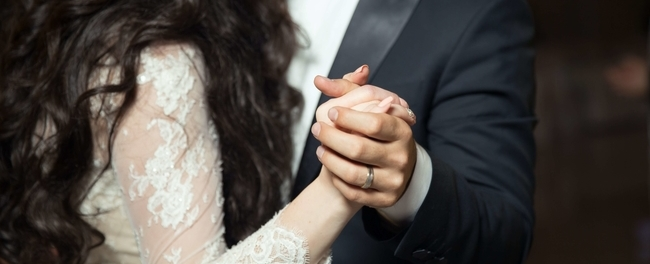
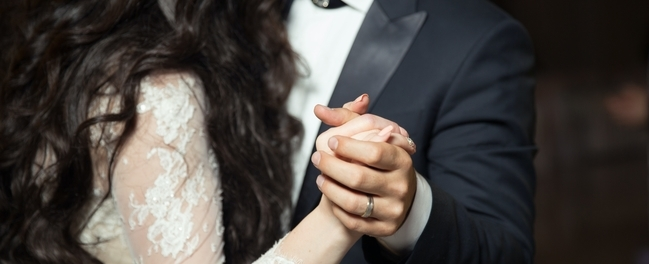
fully responsive

diff --git a/index.html b/index.html
@@ -13,9 +13,9 @@
 </head>
 <header>
     <!-- Navbar -->
-    <nav class="navbar navbar-expand-lg navbar-light bg-light">
+    <nav class="navbar navbar-expand-lg navbar-dark">
         <div class="container">
-            <a class="navbar-brand" href="#">City Hall Convention Center</a>
+            <a class="navbar-brand fw-bold" href="#" >City Hall Convention Center</a>
             <button class="navbar-toggler" type="button" data-bs-toggle="collapse" data-bs-target="#navbarNav"
                 aria-controls="navbarNav" aria-expanded="false" aria-label="Toggle navigation">
                 <span class="navbar-toggler-icon"></span>
@@ -23,16 +23,16 @@
             <div class="collapse navbar-collapse" id="navbarNav">
                 <ul class="navbar-nav ms-auto">
                     <li class="nav-item">
-                        <a class="nav-link active" aria-current="page" href="#">Home</a>
+                        <a class="nav-link active" aria-current="page" href="#carouselExampleCaptions">Home</a>
                     </li>
                     <li class="nav-item">
-                        <a class="nav-link" href="#">About Us</a>
+                        <a class="nav-link" href="#package-section">Packages</a>
                     </li>
                     <li class="nav-item">
-                        <a class="nav-link" href="#">Packages</a>
+                        <a class="nav-link" href="#reviews">Reviews</a>
                     </li>
                     <li class="nav-item">
-                        <a class="nav-link disabled">Contact</a>
+                        <a class="nav-link" href="#q&a">Q&A</a>
                     </li>
                 </ul>
             </div>
@@ -97,7 +97,6 @@
         </button>
     </div>
 
-
     <!-- Intro -->
     <div class="container my-5 mx-auto p-5 g-4">
         <div class="row row-cols-lg-2 row-cols-1 row-cols-md-2  align-items-center">
@@ -122,8 +121,9 @@
 
 <body>
 
+
     <!-- Packages -->
-    <div class="container package-container mb-5 mt-5 mx-auto">
+    <div class="container package-container mb-5 mt-5 mx-auto" id="package-section">
         <h3 class="fw-bold text-center mb-5">Our Packages</h3>
         <div class="row row-cols-1 row-cols-md-2 row-cols-lg-4 row-cols-xl-4 row-cols-xxl-4 g-4">
             <div class="col package package-card-main ">
@@ -254,7 +254,7 @@
     </div>
 
     <!-- Client's Feedback -->
-    <div class="feedback mb-5 mt-5">
+    <div class="feedback mb-5 mt-5" id="reviews">
         <div class="container">
             <h3 class="text-center fw-bold mb-5">Client's Feedback</h3>
             <div class="row row-cols-lg-3 row-cols-1 text-center">
@@ -291,7 +291,7 @@
     </div>
 
     <!-- Frequently asked questions -->
-    <div class="questions mt-5 mb-5">
+    <div class="questions mt-5 mb-5" id="q&a">
         <h3 class="fw-bold text-center mb-5">Frequently asked questions</h3>
         <div class="container">
             <div class="row row-cols-lg-2 row-cols-1 row-md-lg-2 align-items-center g-4">
@@ -302,18 +302,13 @@
                                 <button class="accordion-button" type="button" data-bs-toggle="collapse"
                                     data-bs-target="#panelsStayOpen-collapseOne" aria-expanded="true"
                                     aria-controls="panelsStayOpen-collapseOne">
-                                    Accordion Item #1
+                                    <h5>What’s the difference between event design and event planning?</h5> 
                                 </button>
                             </h2>
                             <div id="panelsStayOpen-collapseOne" class="accordion-collapse collapse show"
                                 aria-labelledby="panelsStayOpen-headingOne">
                                 <div class="accordion-body">
-                                    <strong>This is the first item's accordion body.</strong> It is shown by default,
-                                    until the collapse plugin adds the appropriate classes that we use to style each
-                                    element. These classes control the overall appearance, as well as the showing and
-                                    hiding via CSS transitions. You can modify any of this with custom CSS or overriding
-                                    our default variables. It's also worth noting that just about any HTML can go within
-                                    the <code>.accordion-body</code>, though the transition does limit overflow.
+                                    <p>Event design and event planning work hand in hand to deliver a successful event.Events by Knight offer tailor made events. This means we incorporate both event design and event planning to create that perfect event.</p> 
                                 </div>
                             </div>
                         </div>
@@ -322,18 +317,18 @@
                                 <button class="accordion-button collapsed" type="button" data-bs-toggle="collapse"
                                     data-bs-target="#panelsStayOpen-collapseTwo" aria-expanded="false"
                                     aria-controls="panelsStayOpen-collapseTwo">
-                                    Accordion Item #2
+                                    <h5>How early do we need to start planning an event</h5>
                                 </button>
                             </h2>
                             <div id="panelsStayOpen-collapseTwo" class="accordion-collapse collapse"
                                 aria-labelledby="panelsStayOpen-headingTwo">
                                 <div class="accordion-body">
-                                    <strong>This is the second item's accordion body.</strong> It is hidden by default,
-                                    until the collapse plugin adds the appropriate classes that we use to style each
-                                    element. These classes control the overall appearance, as well as the showing and
-                                    hiding via CSS transitions. You can modify any of this with custom CSS or overriding
-                                    our default variables. It's also worth noting that just about any HTML can go within
-                                    the <code>.accordion-body</code>, though the transition does limit overflow.
+                                    <p>This is the second item's accordion body.</strong> It is hidden by default,
+                                        until the collapse plugin adds the appropriate classes that we use to style each
+                                        element. These classes control the overall appearance, as well as the showing and
+                                        hiding via CSS transitions. You can modify any of this with custom CSS or overriding
+                                        our default variables. It's also worth noting that just about any HTML can go within
+                                        the <code>.accordion-body</code>, though the transition does limit overflow.</p>
                                 </div>
                             </div>
                         </div>
@@ -342,18 +337,38 @@
                                 <button class="accordion-button collapsed" type="button" data-bs-toggle="collapse"
                                     data-bs-target="#panelsStayOpen-collapseThree" aria-expanded="false"
                                     aria-controls="panelsStayOpen-collapseThree">
-                                    Accordion Item #3
+                                    <h5>What is your refund and cancellation policy?</h5>
                                 </button>
                             </h2>
                             <div id="panelsStayOpen-collapseThree" class="accordion-collapse collapse"
                                 aria-labelledby="panelsStayOpen-headingThree">
                                 <div class="accordion-body">
-                                    <strong>This is the third item's accordion body.</strong> It is hidden by default,
-                                    until the collapse plugin adds the appropriate classes that we use to style each
-                                    element. These classes control the overall appearance, as well as the showing and
-                                    hiding via CSS transitions. You can modify any of this with custom CSS or overriding
-                                    our default variables. It's also worth noting that just about any HTML can go within
-                                    the <code>.accordion-body</code>, though the transition does limit overflow.
+                                    <p>This is the third item's accordion body.</strong> It is hidden by default,
+                                        until the collapse plugin adds the appropriate classes that we use to style each
+                                        element. These classes control the overall appearance, as well as the showing and
+                                        hiding via CSS transitions. You can modify any of this with custom CSS or overriding
+                                        our default variables. It's also worth noting that just about any HTML can go within
+                                        the <code>.accordion-body</code>, though the transition does limit overflow.</p> 
+                                </div>
+                            </div>
+                        </div>
+                        <div class="accordion-item">
+                            <h2 class="accordion-header" id="panelsStayOpen-headingfour">
+                                <button class="accordion-button collapsed" type="button" data-bs-toggle="collapse"
+                                    data-bs-target="#panelsStayOpen-collapsefour" aria-expanded="false"
+                                    aria-controls="panelsStayOpen-collapserfour">
+                                    <h5>How do you keep budgets on track?</h5>
+                                </button>
+                            </h2>
+                            <div id="panelsStayOpen-collapsefour" class="accordion-collapse collapse"
+                                aria-labelledby="panelsStayOpen-headingfour">
+                                <div class="accordion-body">
+                                    <p>This is the third item's accordion body.</strong> It is hidden by default,
+                                        until the collapse plugin adds the appropriate classes that we use to style each
+                                        element. These classes control the overall appearance, as well as the showing and
+                                        hiding via CSS transitions. You can modify any of this with custom CSS or overriding
+                                        our default variables. It's also worth noting that just about any HTML can go within
+                                        the <code>.accordion-body</code>, though the transition does limit overflow.</p> 
                                 </div>
                             </div>
                         </div>
@@ -387,7 +402,7 @@
         <div class="order-1 order-sm-2 order-lg-2 order-md-2">
             <div class="d-flex  gap-2 ">
                 <div class="footer-util d-flex flex-column gap-3">
-                    <a class="footer-button d-flex align-items-center p-4" href="http:apple.com">
+                    <a class="footer-button d-flex align-items-center p-4" href="https://www.apple.com/app-store/" target="_blank">
                         <div>
                             <i class="fab fa-apple me-3"></i>
                         </div>
@@ -397,7 +412,7 @@
                             </small>
                         </div>
                     </a>
-                    <a class="footer-button d-flex align-items-center p-4" href="http:apple.com">
+                    <a class="footer-button d-flex align-items-center p-4" href="https://play.google.com/store/apps"  target="_blank">
                         <div>
                             <i class="fab fa-google-play me-3"></i>
                         </div>

diff --git a/css/style.css b/css/style.css
@@ -1,3 +1,10 @@
+nav{
+    background-color: #1e87b1;
+    /* color: aliceblue !important;  */
+}
+.carousel-item img{
+  filter: brightness(65%);
+}
 .package-facilities {
   list-style-type: none;
   padding-left: 0%;
@@ -44,6 +51,7 @@ footer{
 .footer-util a{
     color: aliceblue;
     text-decoration: none;
+
 }
 .fa-apple,.fa-google-play{
     font-size: 25px;
